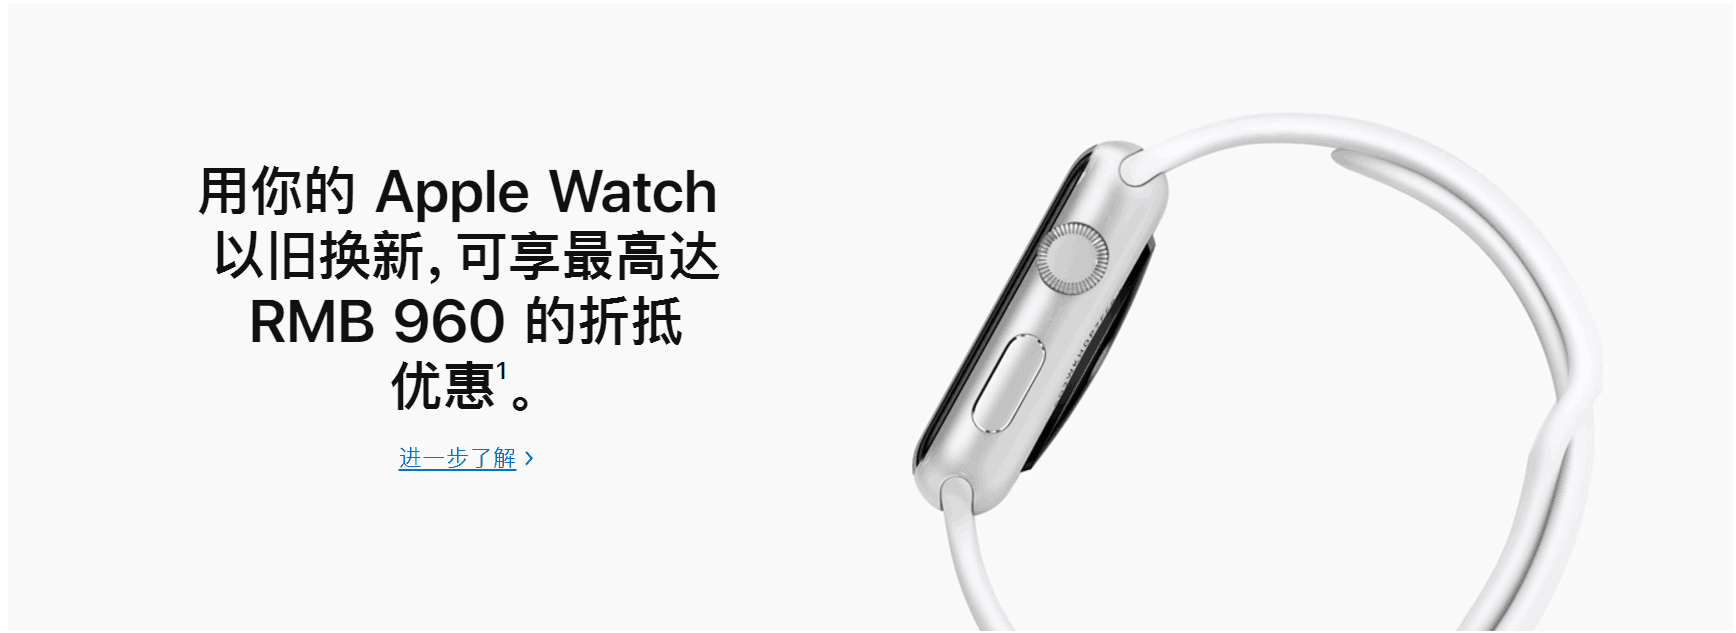
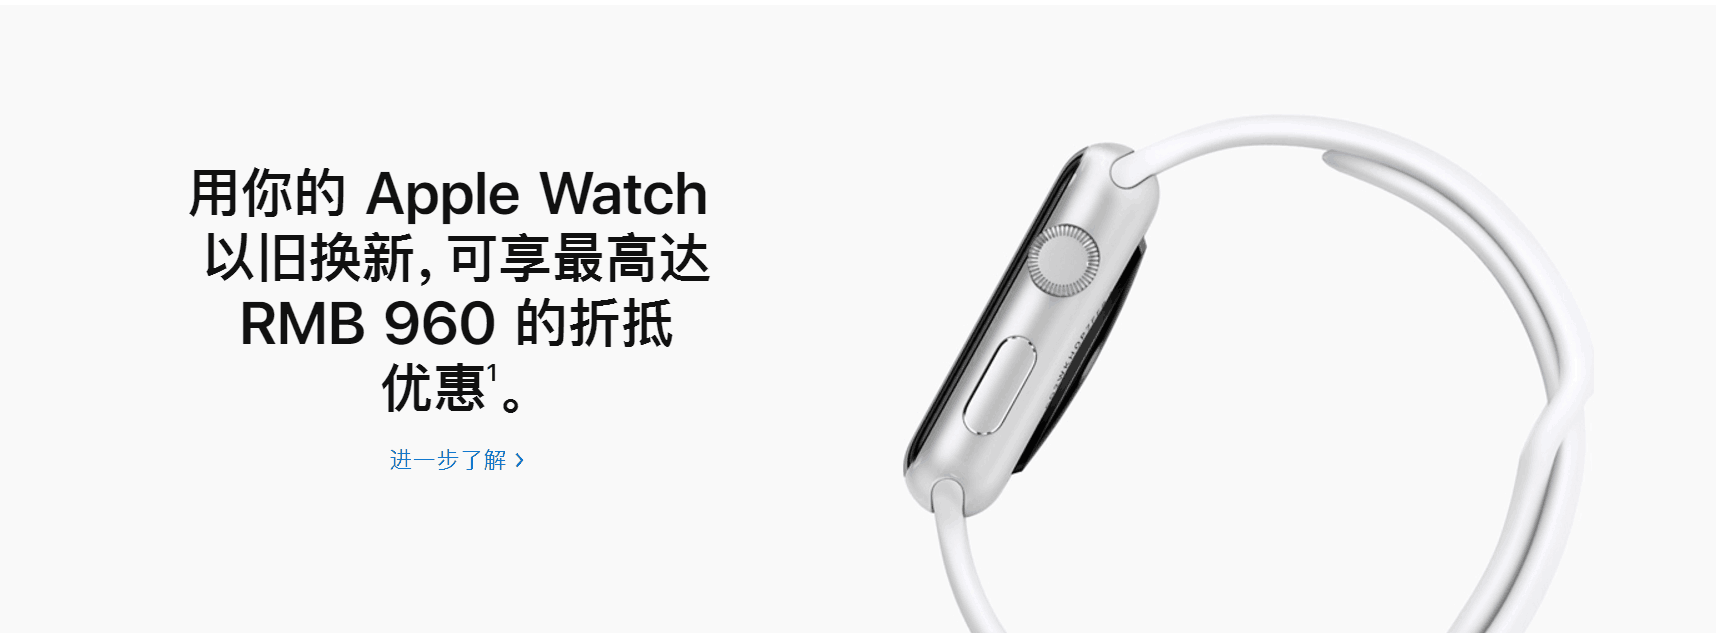
三次

diff --git a/watch/watch.html b/watch/watch.html
@@ -10,41 +10,140 @@
     <div>
         <img src="./watch.png" style="width: 100%;" >
         <img src="./apple.png" style="width:90px;height:80px;margin-left:600px;margin-top:150px;">
-        <b><h1 style="font-size: 65px;margin-top:-80px;margin-left:680px;">WATCH</h1></b>
-        <b><h2 style="font-size: 35px;color: red;margin-left: 700px;margin-top: -40px;">SERIES 4</h2></b>
+        <b>
+            <h1 style="font-size: 65px;margin-top:-80px;margin-left:680px;">
+                WATCH
+            </h1>
+        </b>
+        <b>
+            <h2 style="font-size: 35px;color: red;margin-left: 700px;margin-top: -40px;">
+                SERIES 4
+            </h2>
+        </b>
         <a href="/cn/apple-watch-series-4/" >
-            <span style="margin-left:660px;font-size: 20px;margin-top:-15px;float:left;">进一步了解 ></span>
-            <span style="margin-right:620px;font-size: 20px;margin-top:-15px;float:right;">购买 ></span>
+            <span style="margin-left:660px;font-size: 20px;margin-top:-15px;float:left;">
+                进一步了解 >
+            </span>
+            <span style="margin-right:620px;font-size: 20px;margin-top:-15px;float:right;">
+                购买 >
+            </span>
         </a>
-        <img src="./nike.png" style="width: 685px;margin-top:180px;margin-left:50px;float: left;">
-        <img src="./hermes.png" style="width: 685px;margin-right:50px;margin-top:180px;float: right;">
-        <img src="./watchos6.jpg" style="margin-top: 20px;margin-left:50px;width: 1410px;height: 500px;">
-        <img src="./bense.jpg" style="margin-top: 20px;margin-left: 50px;width: 680px;">
-        <img src="./fengcai.png" style="margin-top: 20px;margin-right:50px;width: 680px;float: right;">
-        <img src="./RMB.png" style="width: 65px;height:65px;margin-top:80px;margin-left:400px;">
+        <img src="./apple.png" style="width: 50px;height:40px;margin-left:230px;margin-top: 230px;">
+        <span>
+            <h2 style="font-size: 25px;margin-top: -35px;margin-left: 290px;">
+                WATCH 
+            </h2>
+        </span>
+        <img src="./tubiao.png" style="width: 100px;height:40px;margin-right:1010px;margin-top:-60px;float:right;">
+        <b>
+            <h2 style="font-size: 20px;color: red;margin-left: 330px;margin-top: -20px;">
+                SERIES 4
+            </h2>
+        </b>
+        <a href="/cn/apple-watch-nike/" >
+            <span style="margin-top: 20px;margin-left:280px;float:left;">
+                进一步了解 >
+            </span>
+        </a>
+        <a href="/cn/shop/goto/buy_watch/apple_watch_nike" >
+            <span style="margin-top: 20px;float:left;margin-left:60px;">
+                购买 >
+            </span>
+        </a>
+        <img src="./nike.png" style="width: 685px;height:800px;margin-top:100px;margin-left:-420px;float: left;">
+        <img src="./apple.png" style="width: 50px;height:40px;margin-right:450px;margin-top: -109px;float:right;">
+        <span>
+            <h2 style="font-size: 25px;margin-top: -100px;margin-right: 330px;float:right;">
+                WATCH 
+            </h2>
+        </span>
+        <img src="./herm.png" style="width: 120px;height:40px;margin-right:210px;margin-top:-110px;float:right;">
+        <b>
+            <h2 style="font-size: 20px;color: red;margin-right: 310px;margin-top: -60px;float:right;">
+                SERIES 4
+            </h2>
+        </b>
+        <a href="/cn/apple-watch-nike/" >
+            <span style="margin-top: 10px;margin-left:280px;float:left;">
+                进一步了解 >
+            </span>
+        </a>
+        <a href="/cn/shop/goto/buy_watch/apple_watch_nike" >
+            <span style="margin-top: 10px;float:left;margin-left:60px;">
+                购买 >
+            </span>
+        </a>
+        <img src="./hermes.png" style="width: 685px;height:800px;margin-right:50px;margin-top:70px;float: right;">
+        <img src="./watchos6.jpg" style="margin-top: 20px;margin-right:50px;width: 800px;height: 500px;float:right;">
+        <h3 style="margin-left: 200px;margin-top: 120px;float: left;font-size: 30px;">
+            watchOS 6
+        </h3>
+        <h2 style="float:left;font-size:45px;margin-left:-150px;margin-top: 170px;">
+            更知你心<br>更合你意
+        </h2>
+        <a href="/cn/watchos/watchos-preview/" style="float:left;font-size:20px;margin-left:-150px;margin-top:320px;" >
+            <span>查看预览 ></span>
+        </a>  
+        <h1 style="float:left;font-size: 45px;margin-top:300px;margin-left: 180px;">
+            本色，永不褪色
+        </h1>
+        <img src="./bense.jpg" style="margin-top: 240px;width: 680px;height:800px;float:left;margin-left:-450px;">
+        <a href="/cn/shop/goto/product/MV9Q2" >
+            <span style="float:left;margin-top:200px;margin-left:-500px;">
+                立即购买新款彩虹版表带 >
+            </span></a>
+        <h1 style="float:right;font-size: 45px;margin-top:120px;margin-right: 240px;">
+            带出新风采
+        </h1>  
+        <img src="./fengcai.jpg" style="margin-top: 25px;margin-right:50px;width: 680px;height:800px;float: right;">
+        <a href="/cn/shop/goto/watch/bands" >
+            <span style="float:right;margin-top:-840px;margin-right:300px;">
+                选购新款表带 >
+            </span></a>
+        <img src="./RMB.png" style="width: 65px;height:65px;margin-top:90px;margin-left:-300px;float:left;">
         <br>
         <br>
-        <b style="margin-left: 390px;margin-top:140px;font-size: 20px;">分期付款</b>
+        <b style="margin-top:180px;font-size: 20px;float: left;margin-left:-310px;">
+            分期付款
+        </b>
         <br>
-        <p style="margin-left: 320px;font-size: 20px;">符合条件的信用卡用户可选择</p>
-        <p style="margin-left: 350px;font-size: 20px;">灵活的分期付款方式。</p>
-        <a href="/cn/shop/goto/ww/financing" ><span style="margin-left: 370px;font-size: 20px;">进一步了解 ></span></a>
-        <img src="./fanghe.png" style="width: 65px;height:65px;margin-top:-210px;float: right;margin-right: 300px;" >
-        <strong style="font-size:20px;margin-right: 300px;margin-top:-130px;float: right;">免费送货</strong>
-        <p style="margin-top:-80px;float: right;margin-right: 220px;font-size: 20px;">享受免费送货上门服务。</p>
+        <p style="margin-left: -400px;font-size: 20px;float: left;margin-top: 220px;">
+            符合条件的信用卡用户可选择
+        </p>
+        <p style="margin-left: -350px;font-size: 20px;float: left;margin-top: 250px;">
+            灵活的分期付款方式。
+        </p>
+        <a href="/cn/shop/goto/ww/financing" >
+            <span style="margin-left: -320px;font-size: 20px;margin-top:300px;float: left;">
+                进一步了解 >
+            </span></a>
+        <img src="./fanghe.png" style="width: 65px;height:65px;margin-top:80px;float: right;margin-right: 350px;" >
+        <strong style="font-size:20px;margin-right: -200px;margin-top:160px;float: right;">
+            免费送货<br>享受免费送货上门服务。
+        </strong>
         <a href="/cn/shop/goto/shipping_and_returns" >
-            <span style="margin-right: 260px;font-size:20px;float: right;margin-top: -100;">进一步了解 ></span>
+            <span style="margin-right: 260px;font-size:20px;float: right;margin-top: 20px;">
+                进一步了解 >
+            </span>
         </a>
         <img src="./youhui.png" style="margin-top: 20px;margin-left:50px;width: 1410px;height: 500px;">
-        <img src="./pay.png" style="margin-top: 50px;margin-left:200px;width: 500px;height: 500px;">
-        <img src="./apple.png" style="margin-right:525px;margin-top:225px;width:55px;height:55px;float:right;">
-        <b style="font-size: 50px;margin-right:450px;float: right;margin-top: -330px;">Pay</b>
-        <br><b style="font-size: 50px;float:right;margin-top:-280px;margin-right:165px;">刷公交，<br>叮一声，就通行。</b>
-        <p style="font-size: 20px;float:right;margin-right:160px;margin-top:-130px;">Apple Pay 现已支持北京一卡通和上海交通卡。</p>
-        <a href="/cn/apple-pay/transit/" ><span style="font-size:20px;float:right;margin-right:460px;margin-top:-90px;">进一步了解</span>
+        <img src="./pay.png" style="margin-top: 160px;margin-left:200px;width: 500px;height: 500px;">
+        <img src="./apple.png" style="margin-right:525px;margin-top:250px;width:55px;height:55px;float:right;">
+        <b style="font-size: 50px;margin-right:450px;float: right;margin-top: -410px;">
+            Pay
+        </b>
+        <br><b style="font-size: 50px;float:right;margin-top:-350px;margin-right:165px;">
+            刷公交，<br>叮一声，就通行。</b>
+        <p style="font-size: 20px;float:right;margin-right:160px;margin-top:-200px;">
+            Apple Pay 现已支持北京一卡通和上海交通卡。
+        </p>
+        <a href="/cn/apple-pay/transit/" ><span style="font-size:20px;float:right;margin-right:460px;margin-top:-160px;">
+            进一步了解 >
+        </span>
         </a>
         <img src="./biaolang.png" style="margin-top: 20px;margin-left: 50px;width: 1410px;height: 500px;">
-        <h2 style="font-size: 50px;text-align:center;margin-top:120px;">尽享 Apple Watch 的精彩</h2>
+        <h2 style="font-size: 50px;text-align:center;margin-top:120px;">
+            尽享 Apple Watch 的精彩</h2>
         <img src="./jiqiao.png" style="margin-top: 20px;margin-left: 50px;width: 1410px;height: 500px;" >
         <img src="./yuanhuan.png" style="margin-top: 20px;margin-left: 50px;width: 1410px;height: 500px;" >
         <img src="./music.jpg" style="margin-top: 20px;margin-left: 50px;width: 1410px;height: 500px;" >
